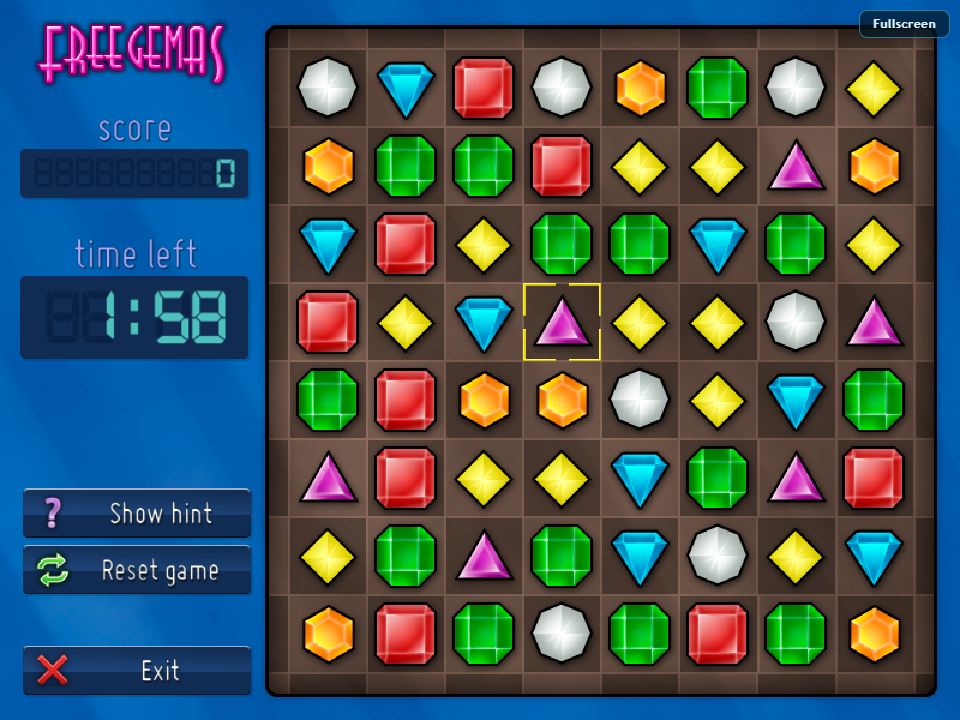
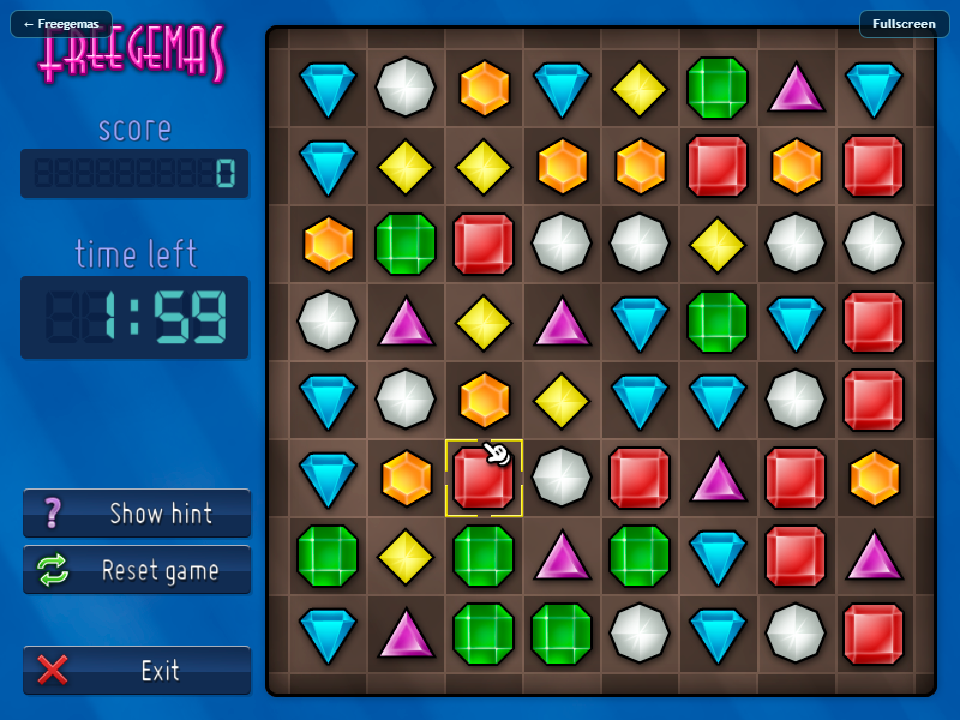
docs(wasm): document browser controls

Changed region(s): [[0.2812, 0.0611, 0.9688, 0.9472], [0.0, 0.0, 0.125, 0.0611], [0.1875, 0.4278, 0.2188, 0.4583]]

diff --git a/README.md b/README.md
@@ -102,6 +102,12 @@ Then open <http://localhost:8000/freegemas.html>. Opening the HTML file directly
 from disk does not work because browsers block the runtime's file fetches. Click
 **Play** once to enable browser audio.
 
+The browser shell has two small controls: **← Freegemas** in the top-left returns
+to the landing page (or the previous page when the build was opened from one),
+and **Fullscreen** in the top-right enters the browser's fullscreen mode. In
+fullscreen the game fills the whole display and the button changes to
+**Exit fullscreen**; press `Esc` to leave fullscreen.
+
 ![Freegemas WebAssembly build](platform/wasm/screenshot.png)
 
 ## Music licensing
